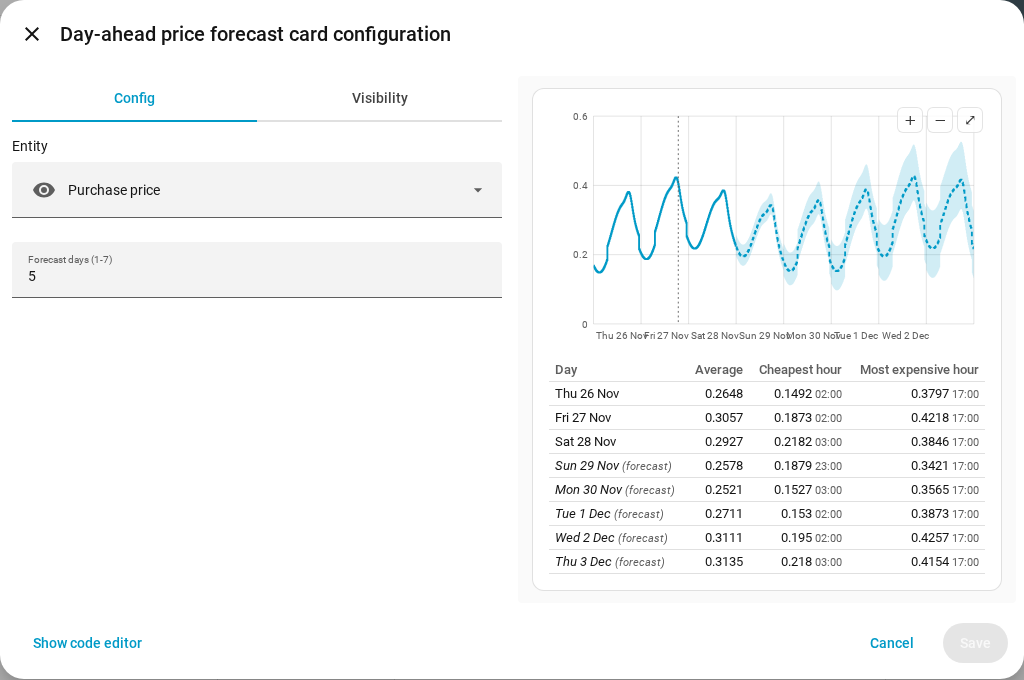
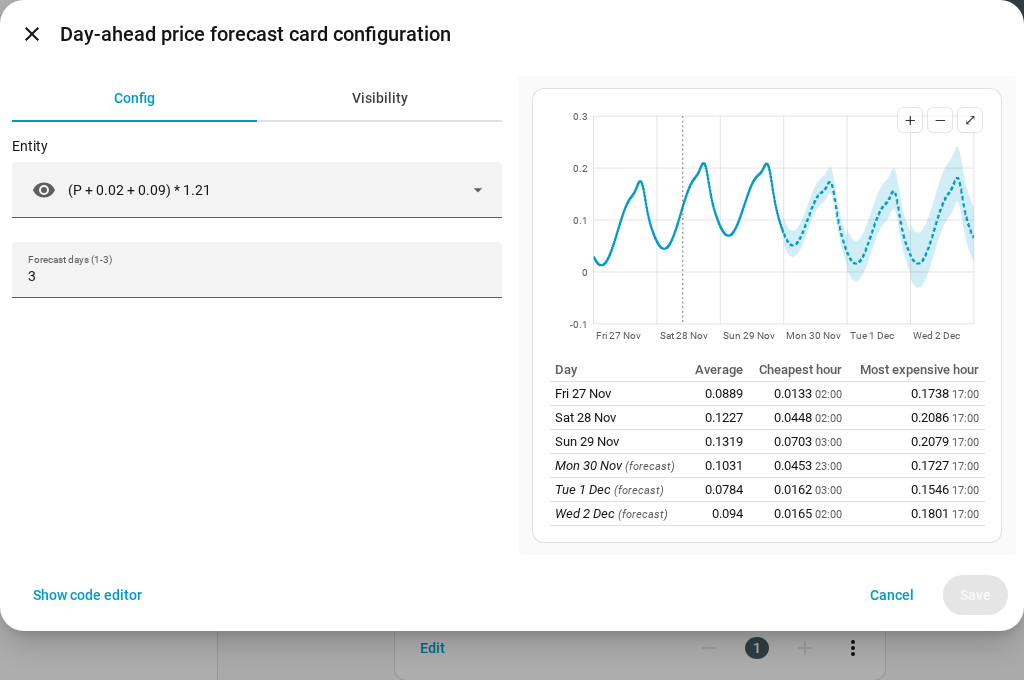
feat: configurable number of forecast days (#17)
Base controller setting (1-7, default 7) in the config flow and reconfigure;
the provider requests only that many days (days query parameter) and the
coordinator trims the result. Sensors expose forecast_days and the card is
limited to it.

diff --git a/custom_components/day_ahead_price_forecast/www/day-ahead-price-forecast-card.js b/custom_components/day_ahead_price_forecast/www/day-ahead-price-forecast-card.js
@@ -1,6 +1,8 @@
 import {
   toPoints,
+  clampDays,
   cutForecast,
+  integrationDays,
   yScale,
   linearScale,
   stepPath,
@@ -30,7 +32,7 @@ const LABELS = {
     noData: "No data available",
     notFound: "Entity not found",
     entity: "Entity",
-    forecastDays: "Forecast days (1-7)",
+    forecastDays: "Forecast days (1-{max})",
     description: "Chart of published and forecast day-ahead prices",
     zoomIn: "Zoom in",
     zoomOut: "Zoom out",
@@ -47,7 +49,7 @@ const LABELS = {
     noData: "Geen gegevens beschikbaar",
     notFound: "Entiteit niet gevonden",
     entity: "Entiteit",
-    forecastDays: "Verwachtingsdagen (1-7)",
+    forecastDays: "Verwachtingsdagen (1-{max})",
     description: "Grafiek van gepubliceerde en verwachte day-ahead-prijzen",
     zoomIn: "Inzoomen",
     zoomOut: "Uitzoomen",
@@ -63,12 +65,6 @@ const DRAG_THRESHOLD_PX = 4;
 
 function esc(s) {
   return String(s).replace(/[&<>"]/g, (c) => ({ "&": "&amp;", "<": "&lt;", ">": "&gt;", '"': "&quot;" })[c]);
-}
-
-function clampDays(v) {
-  const n = Math.round(Number(v));
-  if (!Number.isFinite(n)) return 7;
-  return Math.min(7, Math.max(1, n));
 }
 
 class DayAheadPriceForecastCard extends HTMLElement {
@@ -169,7 +165,7 @@ class DayAheadPriceForecastCard extends HTMLElement {
           : forecast.length
             ? forecast[0].start
             : null;
-      if (from !== null) forecast = cutForecast(forecast, from, this._config.forecast_days, this._tz);
+      if (from !== null) forecast = cutForecast(forecast, from, clampDays(this._config.forecast_days, integrationDays(a)), this._tz);
       forecast.forEach((p) => (p.isForecast = true));
       this._model = {
         known,
@@ -580,11 +576,12 @@ class DayAheadPriceForecastCardEditor extends HTMLElement {
       this._form.addEventListener("value-changed", (e) => {
         e.stopPropagation();
         const v = e.detail.value || {};
-        this._fire({ ...this._config, entity: v.entity, forecast_days: clampDays(v.forecast_days) });
+        this._fire({ ...this._config, entity: v.entity, forecast_days: clampDays(v.forecast_days, this._max) });
       });
       this.appendChild(this._form);
     }
-    this._labels = { entity: t.entity, forecast_days: t.forecastDays };
+    const max = (this._max = integrationDays(((this._hass.states || {})[this._config.entity] || {}).attributes));
+    this._labels = { entity: t.entity, forecast_days: t.forecastDays.replace("{max}", max) };
     this._form.hass = this._hass;
     this._form.schema = [
       {
@@ -592,11 +589,11 @@ class DayAheadPriceForecastCardEditor extends HTMLElement {
         required: true,
         selector: { entity: { domain: "sensor", filter: { domain: "sensor" } } },
       },
-      { name: "forecast_days", selector: { number: { min: 1, max: 7, step: 1, mode: "box" } } },
+      { name: "forecast_days", selector: { number: { min: 1, max, step: 1, mode: "box" } } },
     ];
     this._form.data = {
       entity: this._config.entity || "",
-      forecast_days: this._config.forecast_days ?? 7,
+      forecast_days: clampDays(this._config.forecast_days ?? max, max),
     };
   }
 

diff --git a/custom_components/day_ahead_price_forecast/www/chart-core.js b/custom_components/day_ahead_price_forecast/www/chart-core.js
@@ -77,6 +77,19 @@ export function cutForecast(forecast, knownUntil, days, timeZone) {
   return forecast.filter((p) => p.start < limit);
 }
 
+/** Clamp a configured number of forecast days to 1..max (max defaults to 7). */
+export function clampDays(v, max = 7) {
+  const n = Math.round(Number(v));
+  if (!Number.isFinite(n)) return max;
+  return Math.min(max, Math.max(1, n));
+}
+
+/** Forecast days the integration delivers (sensor attribute forecast_days); 7 when it does not say. */
+export function integrationDays(attributes) {
+  const n = Math.round(Number(attributes && attributes.forecast_days));
+  return Number.isFinite(n) ? Math.min(7, Math.max(1, n)) : 7;
+}
+
 /** Round a step up to 1, 2, 2.5, 5 times a power of ten. */
 export function niceStep(rawStep) {
   if (!(rawStep > 0)) return 1;

diff --git a/custom_components/day_ahead_price_forecast/config_flow.py b/custom_components/day_ahead_price_forecast/config_flow.py
@@ -17,6 +17,9 @@ from homeassistant.core import callback
 from homeassistant.helpers.selector import (
     BooleanSelector,
     DateSelector,
+    NumberSelector,
+    NumberSelectorConfig,
+    NumberSelectorMode,
     SelectOptionDict,
     SelectSelector,
     SelectSelectorConfig,
@@ -27,11 +30,14 @@ from homeassistant.helpers.selector import (
 
 from .const import (
     CONF_ALLOW_NEGATIVE,
+    CONF_FORECAST_DAYS,
     CONF_FORMULA,
     CONF_VARIANTS,
     CONF_ZONE,
+    DEFAULT_FORECAST_DAYS,
     DEFAULT_FORMULA,
     DOMAIN,
+    MAX_FORECAST_DAYS,
     SUBENTRY_CONTROLLER,
 )
 from .core.errors import FormulaError
@@ -42,6 +48,12 @@ from .zones import ZONES
 WEEKDAYS = ["mon", "tue", "wed", "thu", "fri", "sat", "sun"]
 
 
+def _days_selector() -> NumberSelector:
+    return NumberSelector(
+        NumberSelectorConfig(min=1, max=MAX_FORECAST_DAYS, step=1, mode=NumberSelectorMode.BOX)
+    )
+
+
 class DayAheadConfigFlow(ConfigFlow, domain=DOMAIN):
     VERSION = 1
 
@@ -50,12 +62,28 @@ class DayAheadConfigFlow(ConfigFlow, domain=DOMAIN):
             await self.async_set_unique_id(user_input[CONF_ZONE])
             self._abort_if_unique_id_configured()
             zone = ZONES[user_input[CONF_ZONE]]
-            return self.async_create_entry(title=zone.name, data=user_input)
+            data = {**user_input, CONF_FORECAST_DAYS: int(user_input[CONF_FORECAST_DAYS])}
+            return self.async_create_entry(title=zone.name, data=data)
         options = [SelectOptionDict(value=z.code, label=z.name) for z in ZONES.values()]
         schema = vol.Schema(
-            {vol.Required(CONF_ZONE): SelectSelector(SelectSelectorConfig(options=options))}
+            {
+                vol.Required(CONF_ZONE): SelectSelector(SelectSelectorConfig(options=options)),
+                vol.Required(CONF_FORECAST_DAYS, default=DEFAULT_FORECAST_DAYS): _days_selector(),
+            }
         )
         return self.async_show_form(step_id="user", data_schema=schema)
+
+    async def async_step_reconfigure(
+        self, user_input: dict[str, Any] | None = None
+    ) -> ConfigFlowResult:
+        entry = self._get_reconfigure_entry()
+        if user_input is not None:
+            return self.async_update_reload_and_abort(
+                entry, data_updates={CONF_FORECAST_DAYS: int(user_input[CONF_FORECAST_DAYS])}
+            )
+        current = entry.data.get(CONF_FORECAST_DAYS, DEFAULT_FORECAST_DAYS)
+        schema = vol.Schema({vol.Required(CONF_FORECAST_DAYS, default=current): _days_selector()})
+        return self.async_show_form(step_id="reconfigure", data_schema=schema)
 
     @classmethod
     @callback

diff --git a/tests/core/test_models.py b/tests/core/test_models.py
@@ -1,9 +1,13 @@
+from dataclasses import replace
 from datetime import UTC, datetime, timedelta
+from zoneinfo import ZoneInfo
 
 import pytest
 
 from custom_components.day_ahead_price_forecast.core.errors import ForecastError
 from custom_components.day_ahead_price_forecast.core.models import Forecast
+
+AMS = ZoneInfo("Europe/Amsterdam")
 
 
 def test_parses_sample(payload):
@@ -77,3 +81,44 @@ def test_band_violation(payload, p10, value, p90):
 def test_band_edges_allowed(payload):
     payload["forecast"][0].update(p10=0.15, value=0.15, p90=0.15)
     assert Forecast.from_dict(payload).points[0].p10 == 0.15
+
+
+def _spread(payload, days):
+    """Forecast with one point per day, starting at known_until."""
+    start = datetime.fromisoformat(payload["known_until"])
+    payload["forecast"] = [
+        {
+            "start": (start + timedelta(days=d)).isoformat(),
+            "end": (start + timedelta(days=d, minutes=15)).isoformat(),
+            "value": 0.1,
+            "p10": 0.05,
+            "p90": 0.2,
+            "h": d + 1,
+        }
+        for d in range(days)
+    ]
+    return Forecast.from_dict(payload)
+
+
+@pytest.mark.parametrize(("days", "expected"), [(1, 1), (2, 2), (7, 7), (10, 7)])
+def test_limited_to_cuts_after_days(payload, days, expected):
+    forecast = _spread(payload, 7)
+    assert len(forecast.limited_to(days, AMS).points) == expected
+
+
+def test_limited_to_counts_calendar_days_over_dst(payload):
+    # Clocks go back on 2026-10-25: that local day has 25 hours.
+    payload["known_until"] = "2026-10-24T00:00:00+02:00"
+    forecast = _spread(payload, 4)
+    local_days = [datetime(2026, 10, 24 + d, 0, 0, tzinfo=AMS) for d in range(4)]
+    points = tuple(
+        replace(p, start=t, end=t + timedelta(minutes=15))
+        for p, t in zip(forecast.points, local_days, strict=True)
+    )
+    dst = replace(forecast, points=points).limited_to(2, AMS)
+    assert [p.start.day for p in dst.points] == [24, 25]
+
+
+def test_limited_to_keeps_known_prices(payload):
+    forecast = Forecast.from_dict(payload)
+    assert forecast.limited_to(1, AMS).known == forecast.known

diff --git a/custom_components/day_ahead_price_forecast/coordinator.py b/custom_components/day_ahead_price_forecast/coordinator.py
@@ -8,12 +8,21 @@ from homeassistant.config_entries import ConfigEntry
 from homeassistant.core import HomeAssistant
 from homeassistant.helpers.aiohttp_client import async_get_clientsession
 from homeassistant.helpers.update_coordinator import DataUpdateCoordinator, UpdateFailed
+from homeassistant.util import dt as dt_util
 
-from .const import CONF_ZONE, DEFAULT_SERVERS, DOMAIN, UPDATE_INTERVAL
+from .const import (
+    CONF_FORECAST_DAYS,
+    CONF_ZONE,
+    DEFAULT_FORECAST_DAYS,
+    DEFAULT_SERVERS,
+    DOMAIN,
+    UPDATE_INTERVAL,
+)
 from .core.errors import ForecastError
 from .core.models import Forecast
 from .providers.base import ForecastProvider
 from .providers.remote import RemoteProvider
+from .zones import ZONES
 
 _LOGGER = logging.getLogger(__name__)
 
@@ -39,6 +48,7 @@ class ForecastCoordinator(DataUpdateCoordinator[Forecast]):
             update_interval=UPDATE_INTERVAL,
         )
         self.zone: str = entry.data[CONF_ZONE]
+        self.forecast_days: int = entry.data.get(CONF_FORECAST_DAYS, DEFAULT_FORECAST_DAYS)
         self._provider = provider or RemoteProvider(DEFAULT_SERVERS, self._http_get)
 
     async def _http_get(self, url: str, timeout: float) -> tuple[int, bytes]:
@@ -53,6 +63,9 @@ class ForecastCoordinator(DataUpdateCoordinator[Forecast]):
 
     async def _async_update_data(self) -> Forecast:
         try:
-            return await self._provider.fetch(self.zone)
+            forecast = await self._provider.fetch(self.zone, self.forecast_days)
         except ForecastError as err:
             raise UpdateFailed(str(err)) from err
+        # A server that ignores the days parameter still gives the same result.
+        tz = await dt_util.async_get_time_zone(ZONES[self.zone].timezone)
+        return forecast.limited_to(self.forecast_days, tz or dt_util.UTC)

diff --git a/tests/ha/test_integration.py b/tests/ha/test_integration.py
@@ -171,3 +171,33 @@ async def test_card_is_served_and_loaded(hass: HomeAssistant, entry, provider) -
     await hass.async_block_till_done()
     urls = hass.data[DATA_EXTRA_MODULE_URL].urls
     assert any(u.startswith(CARD_URL) for u in urls)
+
+
+async def test_forecast_days_limits_sensor(hass: HomeAssistant, provider, freezer) -> None:
+    freezer.move_to(NOW)
+    entry = MockConfigEntry(
+        domain=DOMAIN,
+        data={"zone": "NL", "forecast_days": 1},
+        unique_id="NL",
+        title="Netherlands",
+        subentries_data=[_sub()],
+    )
+    entry.add_to_hass(hass)
+    await hass.config_entries.async_setup(entry.entry_id)
+    await hass.async_block_till_done()
+    state = next(s for s in hass.states.async_all("sensor") if "forecast" in s.attributes)
+    assert state.attributes["forecast_days"] == 1
+    assert len(state.attributes["forecast"]) == 2
+
+
+async def test_reconfigure_forecast_days(hass: HomeAssistant, entry, provider) -> None:
+    await hass.config_entries.async_setup(entry.entry_id)
+    await hass.async_block_till_done()
+    result = await entry.start_reconfigure_flow(hass)
+    assert result["type"] is FlowResultType.FORM
+    result = await hass.config_entries.flow.async_configure(result["flow_id"], {"forecast_days": 3})
+    assert result["type"] is FlowResultType.ABORT
+    assert result["reason"] == "reconfigure_successful"
+    assert entry.data["forecast_days"] == 3
+    await hass.async_block_till_done()
+    assert entry.runtime_data.forecast_days == 3

diff --git a/custom_components/day_ahead_price_forecast/providers/remote.py b/custom_components/day_ahead_price_forecast/providers/remote.py
@@ -16,6 +16,7 @@ HttpGet = Callable[[str, float], Awaitable[tuple[int, bytes]]]
 
 DEFAULT_MAX_AGE = timedelta(hours=3)
 DEFAULT_TIMEOUT = 5.0
+MAX_DAYS = 7
 
 
 def _utcnow() -> datetime:
@@ -45,12 +46,12 @@ class RemoteProvider:
         """Node name of the server that served the last successful fetch."""
         return self._last_node
 
-    async def fetch(self, zone: str) -> Forecast:
+    async def fetch(self, zone: str, days: int = MAX_DAYS) -> Forecast:
         servers = list(self._servers)
         self._rng.shuffle(servers)
         reasons: list[str] = []
         for base in servers:
-            url = f"{base.rstrip('/')}/v1/forecast?zone={quote(zone)}"
+            url = f"{base.rstrip('/')}/v1/forecast?zone={quote(zone)}&days={days}"
             try:
                 status, body = await asyncio.wait_for(
                     self._http_get(url, self._timeout), self._timeout

diff --git a/custom_components/day_ahead_price_forecast/core/models.py b/custom_components/day_ahead_price_forecast/core/models.py
@@ -3,8 +3,8 @@
 from __future__ import annotations
 
 import math
-from dataclasses import dataclass
-from datetime import datetime
+from dataclasses import dataclass, replace
+from datetime import datetime, timedelta, tzinfo
 from typing import Any
 
 from .errors import ForecastError
@@ -35,6 +35,12 @@ class Forecast:
     accuracy: dict
     node: str
     stale: bool
+
+    def limited_to(self, days: int, tz: tzinfo) -> Forecast:
+        """Copy with the forecast cut at ``known_until`` plus ``days`` local calendar days."""
+        local = self.known_until.astimezone(tz).replace(tzinfo=None)
+        limit = (local + timedelta(days=days)).replace(tzinfo=tz)
+        return replace(self, points=tuple(p for p in self.points if p.start < limit))
 
     @classmethod
     def from_dict(cls, payload: Any) -> Forecast:

diff --git a/tests/providers/test_remote.py b/tests/providers/test_remote.py
@@ -47,7 +47,7 @@ async def test_fetch_ok(payload):
     forecast = await p.fetch("NL")
     assert forecast.zone == "NL"
     assert len(http.calls) == 1
-    assert http.calls[0][0].endswith("/v1/forecast?zone=NL")
+    assert http.calls[0][0].endswith("/v1/forecast?zone=NL&days=7")
     assert http.calls[0][1] == 5.0
     assert p.last_node == forecast.node
 
@@ -143,3 +143,9 @@ async def test_last_node_kept_after_failed_fetch(payload):
     with pytest.raises(ForecastError):
         await p.fetch("NL")
     assert p.last_node == "a"
+
+
+async def test_requests_days(payload):
+    http = FakeHttp({A: ok(payload), B: ok(payload)})
+    await provider(http).fetch("NL", 2)
+    assert all(call[0].endswith("zone=NL&days=2") for call in http.calls)

diff --git a/custom_components/day_ahead_price_forecast/providers/base.py b/custom_components/day_ahead_price_forecast/providers/base.py
@@ -8,5 +8,8 @@ from ..core.models import Forecast
 
 
 class ForecastProvider(Protocol):
-    async def fetch(self, zone: str) -> Forecast:
-        """Return the forecast for a zone; raise ForecastError when unavailable."""
+    async def fetch(self, zone: str, days: int = 7) -> Forecast:
+        """Return the forecast for a zone; raise ForecastError when unavailable.
+
+        ``days`` is a hint that lets the source send less data.
+        """

diff --git a/custom_components/day_ahead_price_forecast/sensor.py b/custom_components/day_ahead_price_forecast/sensor.py
@@ -133,6 +133,7 @@ class ForecastSensor(CoordinatorEntity[ForecastCoordinator], SensorEntity):
         return {
             "zone": forecast.zone,
             "known_until": forecast.known_until.isoformat(),
+            "forecast_days": self.coordinator.forecast_days,
             "known": [_dump(p) for p in forecast.known],
             "forecast": [_dump(p) for p in forecast.points],
         }

diff --git a/custom_components/day_ahead_price_forecast/const.py b/custom_components/day_ahead_price_forecast/const.py
@@ -13,6 +13,9 @@ CONF_ZONE = "zone"
 CONF_FORMULA = "formula"
 CONF_ALLOW_NEGATIVE = "allow_negative"
 CONF_VARIANTS = "variants"
+CONF_FORECAST_DAYS = "forecast_days"
+DEFAULT_FORECAST_DAYS = 7
+MAX_FORECAST_DAYS = 7
 
 SUBENTRY_CONTROLLER = "controller"
 DEFAULT_FORMULA = "P"
